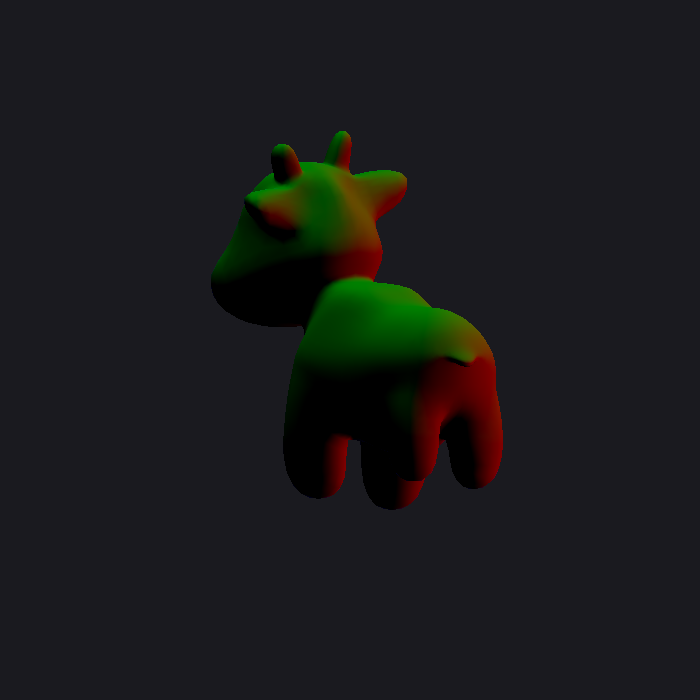
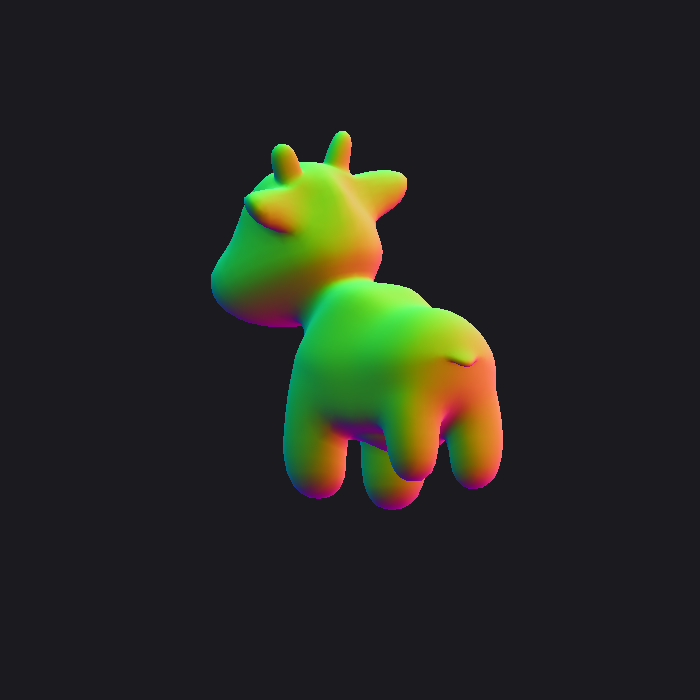
fix(a3): evaluate Eigen expr into concrete Vec3f — correct + deterministic normal/bump
The normal and bump fragment shaders returned (v + Vec3f(1,1,1)) * 0.5f from
an auto-deduced lambda, yielding an Eigen expression template that held a
dangling reference to the temporary Vec3f(1,1,1). The caller then read that
freed temporary (undefined behavior): the normal map lost its blue channel
(red/green only) and the bump map rendered as an all-black silhouette.

Force evaluation into a concrete Vec3f in both lambdas. Result: normal map is
now a smooth rainbow, bump map shows the texture height-field creases, and both
are deterministic (byte-identical across repeated renders on MinGW g++ 14.2 and
WSL2 g++ 13.3). Regenerated results/a3_normal.png and results/a3_bump.png; the
other three A3 renders are unchanged bit-for-bit. README verification note added.

Changed region(s): [[0.3, 0.18, 0.72, 0.75]]

diff --git a/assignments/a3_shading/main.cpp b/assignments/a3_shading/main.cpp
@@ -146,7 +146,10 @@ int main() {
     // --- normal ---
     { Image img(W,H,bg);
       render_mesh(mesh, model, view, proj,
-        [](const Frag& f){ return (f.nrm + Vec3f(1,1,1)) * 0.5f; }, img);
+        // Force evaluation into a concrete Vec3f: returning the raw Eigen
+        // expression (auto) would keep a dangling reference to the temporary
+        // Vec3f(1,1,1), which the caller then reads as garbage (UB).
+        [](const Frag& f){ return Vec3f((f.nrm + Vec3f(1,1,1)) * 0.5f); }, img);
       img.save_png("results/a3_normal.png"); std::printf("  wrote a3_normal.png\n"); }
 
     // --- blinn-phong (flat albedo) ---
@@ -173,7 +176,9 @@ int main() {
             float dv = kh*kn*(tex.height(f.uv.x(), f.uv.y()+1.0f/tex.h) - tex.height(f.uv.x(), f.uv.y()));
             Vec3f ln(-du, -dv, 1.0f);
             Vec3f pn = (TBN*ln).normalized();
-            return (pn + Vec3f(1,1,1)) * 0.5f;
+            // Concrete Vec3f (see a3_normal note): returning the Eigen
+            // expression here would dangle on the Vec3f(1,1,1) temporary.
+            return Vec3f((pn + Vec3f(1,1,1)) * 0.5f);
         }, img);
       img.save_png("results/a3_bump.png"); std::printf("  wrote a3_bump.png\n"); }
 

diff --git a/README.md b/README.md
@@ -130,6 +130,13 @@ Every assignment was run and its output inspected:
 
 - **A0** matches the analytic result: rotate(45°)·(2,1)=(0.707,2.121), +translate(1,2)=(1.707,4.121).
 - **A2** the near (green, z=−2) triangle occludes the far (blue, z=−5) one; MSAA blends 969 edge pixels.
+- **A3** the `normal` and `bump` shaders now return a **concrete `Vec3f`** rather than a deduced Eigen
+  expression: writing `return (v + Vec3f(1,1,1)) * 0.5f;` from an `auto` lambda kept a dangling reference
+  to the temporary `Vec3f(1,1,1)`, so the caller read garbage (undefined behavior). The normal map came out
+  red/green with **no blue channel** and the bump map rendered as an **all-black silhouette**. Forcing
+  evaluation (`return Vec3f(...)`) fixes both: the normal map is now a smooth rainbow and the bump map shows
+  the texture's height-field creases. Verified deterministic — rendering twice is byte-identical (MinGW
+  g++ 14.2 and WSL2 g++ 13.3).
 - **A4** de Casteljau and the closed-form Bernstein polynomial agree to **1.26e-4 px** over 2000 samples.
 - **A6** BVH and brute-force intersection return **identical hit counts** (326/326 on the sample); BVH is
   ~200–470× faster and matches pixel-for-pixel.